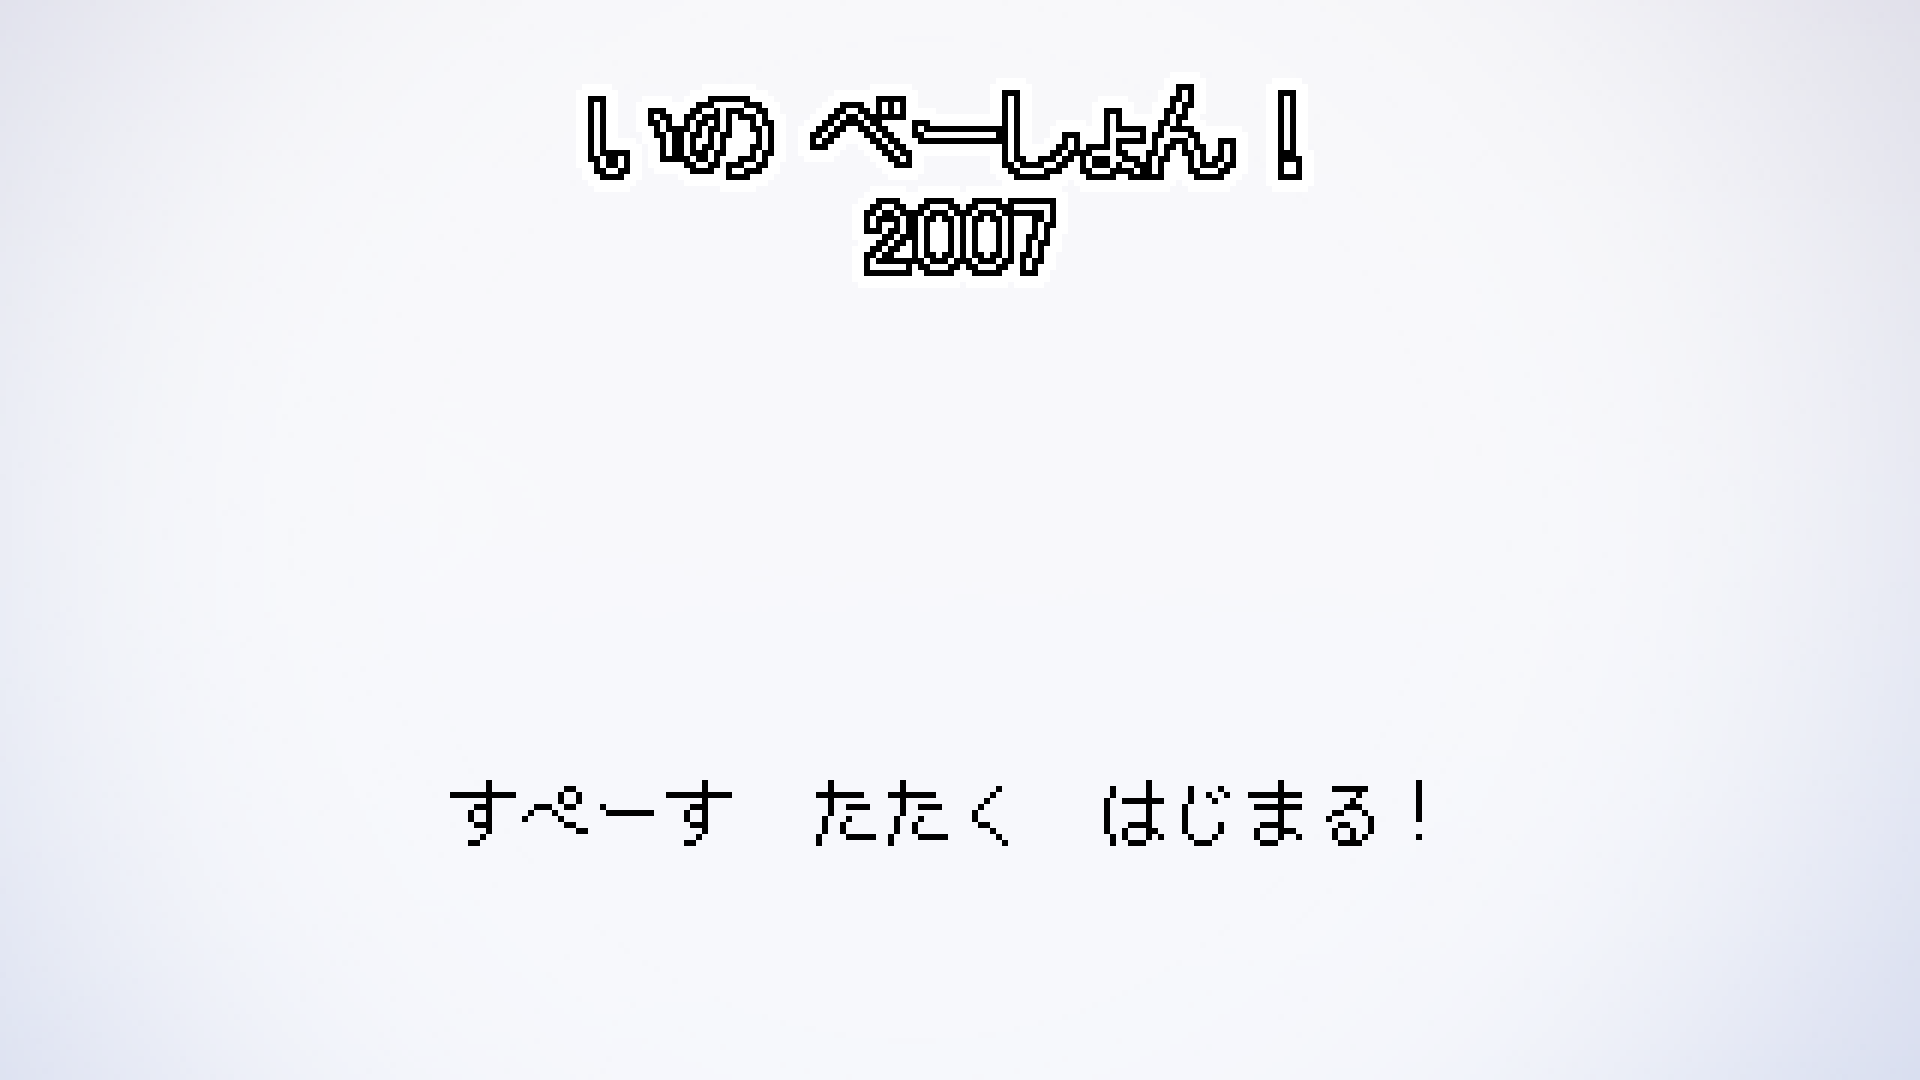
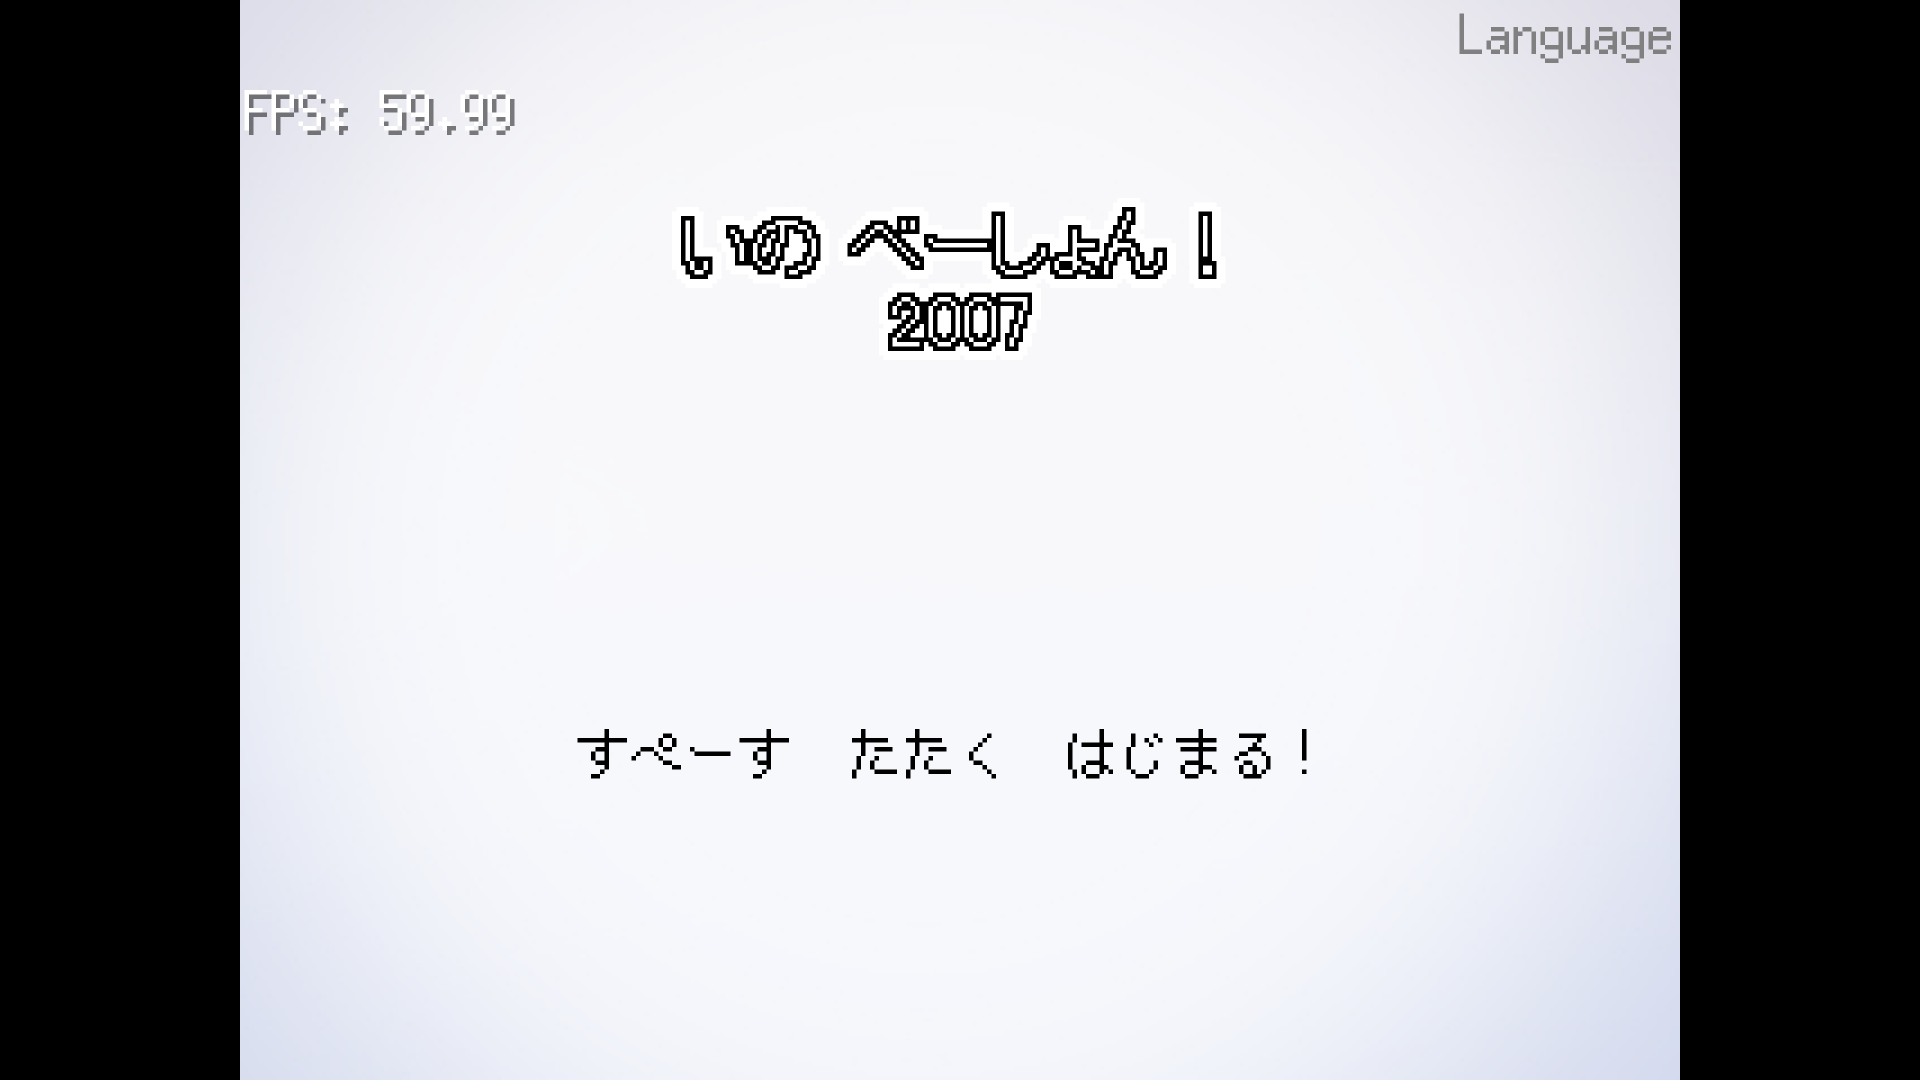
Update screenshots

diff --git a/steam/screenshot/convert.go b/steam/screenshot/convert.go
@@ -3,7 +3,9 @@ package main
 import (
 	"errors"
 	"fmt"
+	"image/color"
 	"image/png"
+	"math"
 	"os"
 	"regexp"
 
@@ -16,9 +18,21 @@ var regularTermination = errors.New("regular termiination")
 var reFilename = regexp.MustCompile(`^screenshot(.+)_([a-z]+)\.png$`)
 
 type Game struct {
+	tmpImage *ebiten.Image
 }
 
-func (*Game) Update() error {
+func (g *Game) getTmpImage(width, height int) *ebiten.Image {
+	if g.tmpImage != nil {
+		if w, h := g.tmpImage.Size(); w == width && h == height {
+			g.tmpImage.Clear()
+			return g.tmpImage
+		}
+	}
+	g.tmpImage = ebiten.NewImage(width, height)
+	return g.tmpImage
+}
+
+func (g *Game) Update() error {
 	ents, err := os.ReadDir(".")
 	if err != nil {
 		return err
@@ -45,14 +59,21 @@ func (*Game) Update() error {
 			return err
 		}
 
-		const scale = 6
-		//w, h := img.Size()
+		w, h := img.Size()
+		scale := screenshotHeight / float64(h)
+		iscale := math.Ceil(scale)
 		op := &ebiten.DrawImageOptions{}
-		op.GeoM.Scale(scale, scale)
-		op.GeoM.Translate(0, -192)
+		op.GeoM.Scale(iscale, iscale)
+		tmpImg := g.getTmpImage(w * int(iscale), h * int(iscale))
+		tmpImg.DrawImage(img, op)
 
+		op = &ebiten.DrawImageOptions{}
+		op.GeoM.Scale(float64(scale) / float64(iscale), float64(scale) / float64(iscale))
+		op.GeoM.Translate((screenshotWidth - float64(w) * scale) / 2, 0)
+		op.Filter = ebiten.FilterLinear
 		offscreen.Clear()
-		offscreen.DrawImage(img, op)
+		offscreen.Fill(color.Black)
+		offscreen.DrawImage(tmpImg, op)
 
 		newName := fmt.Sprintf("screenshot%s_%dx%d_%s.png", m[0], screenshotWidth, screenshotHeight, m[1])
 		f, err := os.Create(newName)
